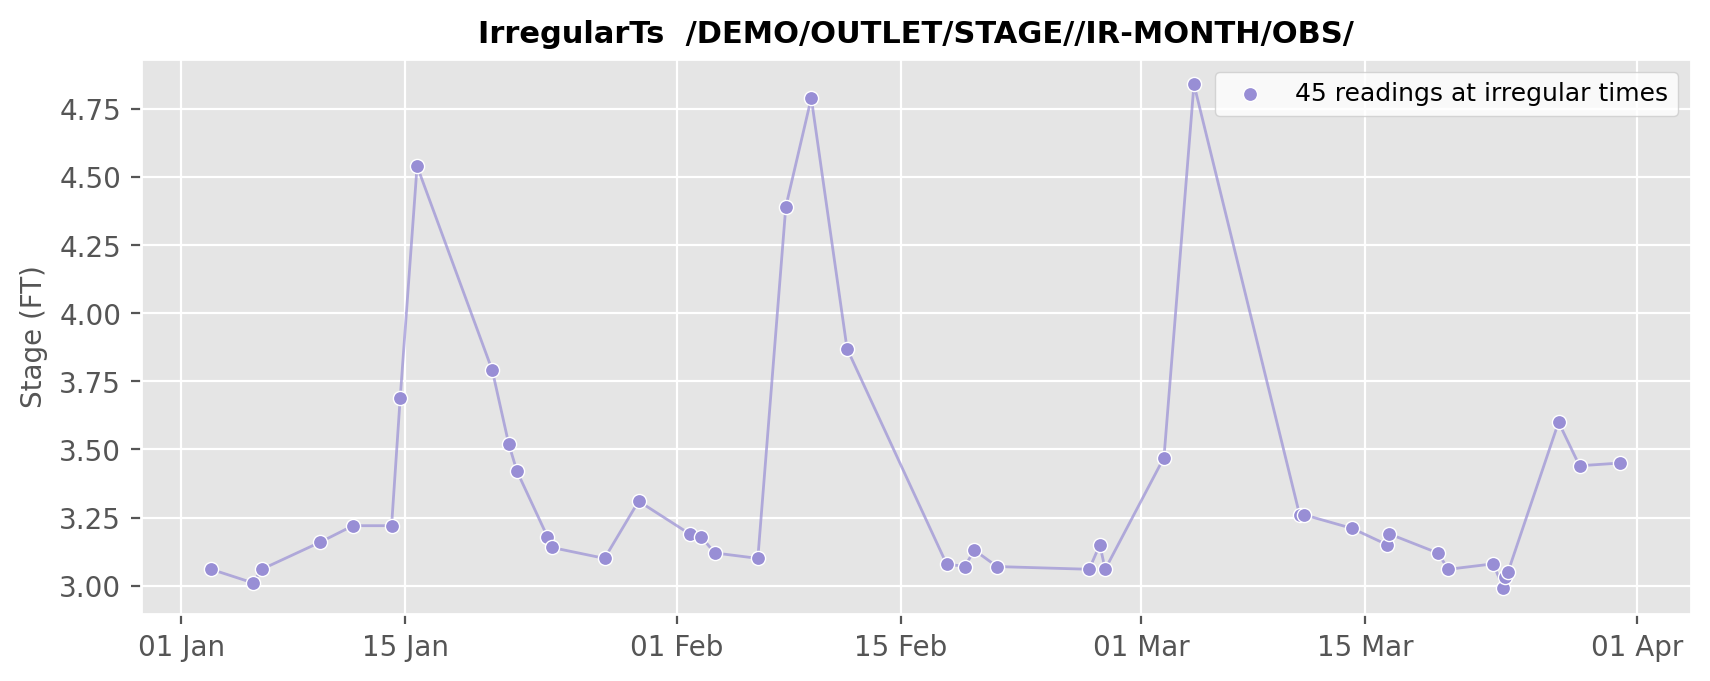
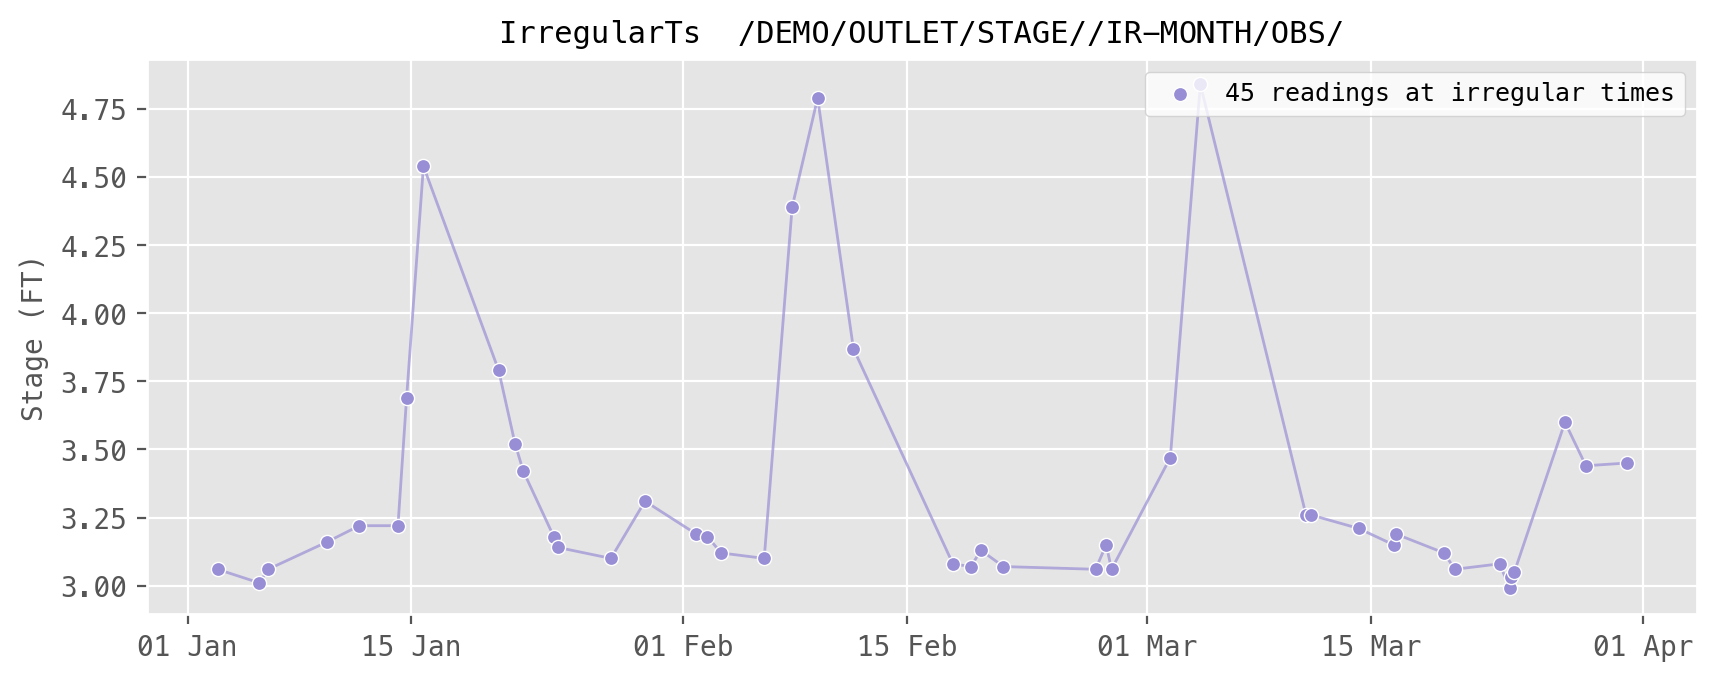
include tools as console scripts

diff --git a/tests/test_tools.py b/tests/test_tools.py
@@ -1,4 +1,4 @@
-''' command line tools in tools/ '''
+''' command line tools in pyheclib/tools '''
 import os
 import subprocess
 import sys
@@ -12,7 +12,7 @@ ROOT = os.path.dirname(os.path.dirname(os.path.abspath(__file__)))
 
 def run_tool(name, *args):
 	env = {**os.environ, "PYTHONPATH": ROOT}
-	result = subprocess.run([sys.executable, os.path.join(ROOT, "tools", name), *args],
+	result = subprocess.run([sys.executable, "-m", f"pyheclib.tools.{name}", *args],
 		capture_output=True, text=True, env=env, check=True)
 	return result.stdout
 
@@ -28,24 +28,24 @@ def make_file(tmp_path):
 
 def test_catalog_tool(tmp_path):
 	fname = make_file(tmp_path)
-	full = run_tool("dss_catalog.py", fname)
-	condensed = run_tool("dss_catalog.py", fname, "--condensed")
+	full = run_tool("dss_catalog", fname)
+	condensed = run_tool("dss_catalog", fname, "--condensed")
 
 	assert "01Feb2020" in full and len(full.splitlines()) == 4
 	assert "/A/B/FLOW/01JAN2020-01FEB2020/1Hour/F/" in condensed and len(condensed.splitlines()) == 3
-	assert len(run_tool("dss_catalog.py", fname, "/A/B/STAGE*/*/*/*/").splitlines()) == 1
+	assert len(run_tool("dss_catalog", fname, "/A/B/STAGE*/*/*/*/").splitlines()) == 1
 
 
 def test_csv_tool(tmp_path):
 	fname = make_file(tmp_path)
 	out = tmp_path / "out.csv"
 
-	run_tool("dssrec2csv.py", fname, "/A/B/FLOW//1HOUR/F/", str(out))
+	run_tool("dssrec2csv", fname, "/A/B/FLOW//1HOUR/F/", str(out))
 	ts = pd.read_csv(out, index_col=0, parse_dates=True)
 	assert ts.shape == (800, 1) and ts.iloc[-1, 0] == 799.0
 
-	run_tool("dssrec2csv.py", fname, "/A/B/STAGE-FLOW///R/", str(out))
+	run_tool("dssrec2csv", fname, "/A/B/STAGE-FLOW///R/", str(out))
 	assert pd.read_csv(out, index_col=0).columns.tolist() == ["c1"]
 
-	run_tool("dssrec2csv.py", fname, "/A/B/DEM///F/", str(out))
+	run_tool("dssrec2csv", fname, "/A/B/DEM///F/", str(out))
 	np.testing.assert_allclose(np.loadtxt(out, delimiter=","), np.arange(4.0).reshape(2, 2))

diff --git a/setup.py b/setup.py
@@ -1,11 +1,15 @@
 #!/usr/bin/env python3
-import os, sys, shutil, numpy
+import os, re, sys, shutil, numpy
 from setuptools import setup, Extension
 from setuptools.command.build_ext import build_ext
 from Cython.Build import cythonize
 
 root = os.path.dirname(os.path.realpath(__file__))
 heclib = os.path.join(root, 'heclib')
+
+# version from pyheclib/__init__.py, the package can't be imported before the extension is built
+with open(os.path.join(root, 'pyheclib', '__init__.py'), encoding='utf-8') as f:
+	version = re.search(r"^__version__ = '([^']+)'", f.read(), re.M).group(1)
 
 # platform dependent
 library_dirs_list = []
@@ -79,7 +83,7 @@ extension = [
 
 setup(
 	python_requires='>=3.8',
-	version='0.4.1',
+	version=version,
 	name='pyheclib',
 	description='Read and write HEC-DSS version 7 files from Python',
 	long_description=open(os.path.join(root, 'readme.md'), encoding='utf-8').read(),
@@ -87,9 +91,15 @@ setup(
 	url='https://github.com/nzahasan/pyheclib',
 	project_urls={'Documentation': 'https://nzahasan.github.io/pyheclib'},
 	license='MIT',
-	packages=['pyheclib'],
+	packages=['pyheclib', 'pyheclib.tools'],
 	package_data={'pyheclib': ['*.so', '*.dylib', '*.dll']},
 	install_requires=['numpy', 'pandas'],
+	# command line tools, pip makes .exe launchers on windows and scripts on linux & macos
+	entry_points={'console_scripts': [
+		'dss_browser = pyheclib.tools.dss_browser:main',
+		'dss_catalog = pyheclib.tools.dss_catalog:cli',
+		'dssrec2csv = pyheclib.tools.dssrec2csv:cli',
+	]},
 	cmdclass={'build_ext': build_ext_hecdss},
 	ext_modules=cythonize(extension, language_level='3', include_path=['src']),
 )

diff --git a/pyheclib/tools/dssrec2csv.py b/pyheclib/tools/dssrec2csv.py
@@ -1,11 +1,7 @@
 #!/usr/bin/env python3
-import os, sys
+import os
 import argparse
 
-# run from a clone without installing: use the repo's in-place build
-REPO = os.path.dirname(os.path.dirname(os.path.abspath(__file__)))
-if os.path.isfile(os.path.join(REPO, "pyheclib", "__init__.py")):
-    sys.path.insert(0, REPO)
 import numpy as np
 import pyheclib as phl
 
@@ -27,8 +23,7 @@ def main(filename, pathname, out_csv):
         record.to_series().to_csv(out_csv)
 
 
-if __name__ == "__main__":
-
+def cli():
     parser = argparse.ArgumentParser(description="write a dss record to csv")
     parser.add_argument("filename")
     parser.add_argument("pathname", help="record pathname, empty D part reads whole time series")
@@ -36,3 +31,7 @@ if __name__ == "__main__":
     args = parser.parse_args()
 
     main(args.filename, args.pathname, args.out_csv)
+
+
+if __name__ == "__main__":
+    cli()

diff --git a/pyheclib/tools/dss_catalog.py b/pyheclib/tools/dss_catalog.py
@@ -1,11 +1,7 @@
 #!/usr/bin/env python3
-import os, sys
+import os
 import argparse
 
-# run from a clone without installing: use the repo's in-place build
-REPO = os.path.dirname(os.path.dirname(os.path.abspath(__file__)))
-if os.path.isfile(os.path.join(REPO, "pyheclib", "__init__.py")):
-    sys.path.insert(0, REPO)
 import pyheclib as phl
 
 
@@ -20,8 +16,7 @@ def main(filename, search_path, condensed):
             print(f"{i:02d}: [{code}]", path)
 
 
-if __name__ == "__main__":
-
+def cli():
     parser = argparse.ArgumentParser(description="list records of a dss file")
     parser.add_argument("filename")
     parser.add_argument("search_path", nargs="?", default="",
@@ -31,3 +26,7 @@ if __name__ == "__main__":
     args = parser.parse_args()
 
     main(args.filename, args.search_path, args.condensed)
+
+
+if __name__ == "__main__":
+    cli()

diff --git a/pyheclib/tools/dss_browser.py b/pyheclib/tools/dss_browser.py
@@ -2,7 +2,7 @@
 '''
 	dss_browser: browse dss files in the web browser.
 
-	    python tools/dss_browser.py [file.dss ...] [--port 8765] [--no-browser]
+	    dss_browser [file.dss ...] [--port 8765] [--no-browser]
 
 	A single file tool using the python built in http server. The page uses
 	htmx for interaction and shadcn/ui styling (tailwind + shadcn theme
@@ -26,11 +26,6 @@ import webbrowser
 import zlib
 from http.server import BaseHTTPRequestHandler, HTTPServer
 from urllib.parse import parse_qs, quote, urlparse
-
-# run from a clone without installing: use the repo's in-place build
-REPO = os.path.dirname(os.path.dirname(os.path.abspath(__file__)))
-if os.path.isfile(os.path.join(REPO, "pyheclib", "__init__.py")):
-	sys.path.insert(0, REPO)
 
 import numpy as np
 import pandas as pd

diff --git a/tests/test_browser.py b/tests/test_browser.py
@@ -1,5 +1,4 @@
-''' tools/dss_browser.py web server '''
-import importlib.util
+''' pyheclib/tools/dss_browser.py web server '''
 import os
 import threading
 import urllib.error
@@ -20,10 +19,8 @@ GRID = "/SHG/A/PRECIP/01JAN2020:0000/01JAN2020:0100/RADAR/"
 
 
 def load_tool():
-	spec = importlib.util.spec_from_file_location("dss_browser", os.path.join(ROOT, "tools", "dss_browser.py"))
-	module = importlib.util.module_from_spec(spec)
-	spec.loader.exec_module(module)
-	return module
+	from pyheclib.tools import dss_browser
+	return dss_browser
 
 
 @pytest.fixture(scope="module")

diff --git a/tests/test_version.py b/tests/test_version.py
@@ -1,0 +1,12 @@
+''' package & bundled hecdss version strings '''
+import os
+
+import pyheclib as phl
+
+ROOT = os.path.dirname(os.path.dirname(os.path.abspath(__file__)))
+
+
+def test_hecdss_version_matches_bundled_library():
+	with open(os.path.join(ROOT, "heclib", "version.txt")) as f:
+		assert f"(hecdss) {phl.__hecdss_version__} " in f.readline()
+	assert phl.api_version()

diff --git a/examples/make_readme_figures.py b/examples/make_readme_figures.py
@@ -27,6 +27,8 @@ import pyheclib as phl
 
 plt.style.use("ggplot")
 plt.rcParams.update({
+	"font.family": "monospace",
+	"font.monospace": ["IBM Plex Mono", "JetBrains Mono", "Menlo", "Consolas", "DejaVu Sans Mono"],
 	"figure.dpi": 100,
 	"savefig.dpi": 200,
 	"savefig.bbox": "tight",

diff --git a/pyheclib/__init__.py b/pyheclib/__init__.py
@@ -18,7 +18,10 @@ from .dssfile import open, DssFile
 
 import os
 
-__version__ = '0.4.1'
+__version__ = '0.4.2'
+
+# bundled HEC-DSS C API library (hecdss), see heclib/version.txt
+__hecdss_version__ = '7-JA-7'
 
 
 def message_level_from_env():

diff --git a/readme.md b/readme.md
@@ -220,13 +220,15 @@ Rules worth knowing:
 
 ## Tools
 
-Command-line tools in [`tools/`](https://github.com/nzahasan/pyheclib/blob/main/tools):
+Installing pyheclib adds these commands (on Linux, macOS and Windows):
 
 ```bash
-python3 tools/dss_browser.py file.dss [--port 8765] [--no-browser]   # browse a file in your web browser
-python3 tools/dss_catalog.py file.dss [filter] [--condensed]         # list records
-python3 tools/dssrec2csv.py file.dss pathname out.csv                # export one record to csv
+dss_browser file.dss [--port 8765] [--no-browser]   # browse a file in your web browser
+dss_catalog file.dss [filter] [--condensed]         # list records
+dssrec2csv file.dss pathname out.csv                # export one record to csv
 ```
+
+They are also available as `python -m pyheclib.tools.<name>`.
 
 The browser opens one or more files in tabs (or drag files onto the page). Search records by
 text or by part (`B=GAGE C=FLOW*`), view metadata, statistics, a graph or table of the data,
@@ -263,6 +265,28 @@ Code layout:
 - `pyheclib/dsspath.py`: `DssPath`
 - `pyheclib/dssfile.py`: `open` and `DssFile`
 - `src/_core.pyx`: thin Cython wrapper around the HEC-DSS C API
+
+## Bundled HEC-DSS library
+
+pyheclib bundles the official HEC-DSS C API library (`hecdss`) version **7-JA-7**, built by
+the Hydrologic Engineering Center ([source code](https://github.com/HydrologicEngineeringCenter/hec-dss)).
+The binaries come unchanged from HEC's Maven repository,
+[`mil/army/usace/hec/hecdss/7-JA-7-<platform>`](https://www.hec.usace.army.mil/nexus/repository/maven-public/mil/army/usace/hec/hecdss/):
+
+| File | Platform | Package |
+|---|---|---|
+| `heclib/macos/libhecdss.dylib` | macOS, universal (arm64 + x86_64) | `7-JA-7-darwin-aarch64`, `7-JA-7-darwin-x86_64` |
+| `heclib/linux/libhecdss.so` | Linux x86_64 | `7-JA-7-linux-x86_64` |
+| `heclib/windows/hecdss.dll` | Windows x64 | `7-JA-7-win-x86_64` |
+
+`heclib/include/hecdss.h` is the matching header. `heclib/windows/hecdss.def` is generated from the
+dll's export table. The details are also in
+[`heclib/version.txt`](https://github.com/nzahasan/pyheclib/blob/main/heclib/version.txt).
+
+```python
+phl.__hecdss_version__   # '7-JA-7', the bundled library release
+phl.api_version()        # version reported by the hecdss C API
+```
 
 ## Resources
 

diff --git a/docs/tools/command-line-tools.md b/docs/tools/command-line-tools.md
@@ -1,27 +1,27 @@
 # Command line tools
 
-These small scripts live in the
-[`tools` folder](https://github.com/nzahasan/pyheclib/tree/main/tools) of the repository.
-They need pyheclib to be installed, or a clone of the repository with the extension built.
+Installing pyheclib adds these commands on Linux, macOS and Windows. They live in
+[`pyheclib/tools`](https://github.com/nzahasan/pyheclib/tree/main/pyheclib/tools) and also run as
+`python -m pyheclib.tools.<name>`, for example from a clone with the extension built in place.
 
-## List records: `dss_catalog.py`
+## List records: `dss_catalog`
 
 Prints every record in a file with its record type code.
 
 ```bash
-python3 tools/dss_catalog.py example.dss
+dss_catalog example.dss
 ```
 
 Show each time series once instead of once per block:
 
 ```bash
-python3 tools/dss_catalog.py example.dss --condensed
+dss_catalog example.dss --condensed
 ```
 
 Show only matching records (use `*` in any part):
 
 ```bash
-python3 tools/dss_catalog.py example.dss "/DEMO/*/FLOW/*/*/*/"
+dss_catalog example.dss "/DEMO/*/FLOW/*/*/*/"
 ```
 
 Record type codes:
@@ -33,12 +33,12 @@ Record type codes:
 | 205 | paired data |
 | 4xx | gridded data (420, 421 and so on, by grid type) |
 
-## Export to CSV: `dssrec2csv.py`
+## Export to CSV: `dssrec2csv`
 
 Saves one record as a CSV file.
 
 ```bash
-python3 tools/dssrec2csv.py example.dss "/DEMO/OUTLET/FLOW//1HOUR/OBS/" flow.csv
+dssrec2csv example.dss "/DEMO/OUTLET/FLOW//1HOUR/OBS/" flow.csv
 ```
 
 - Time series: one row per time, with the time and the value.

diff --git a/docs/tools/dss-viewer.md b/docs/tools/dss-viewer.md
@@ -9,19 +9,20 @@ computer and needs nothing besides pyheclib.
 
 ## Get it
 
-The viewer is a single script, `tools/dss_browser.py`, in the
-[GitHub repository](https://github.com/nzahasan/pyheclib/tree/main/tools).
-Download it, or clone the repository:
+The viewer comes with pyheclib as the `dss_browser` command:
 
 ```bash
-git clone https://github.com/nzahasan/pyheclib
-cd pyheclib
+pip install pyheclib
 ```
+
+It is a single script,
+[`pyheclib/tools/dss_browser.py`](https://github.com/nzahasan/pyheclib/tree/main/pyheclib/tools),
+and also runs as `python -m pyheclib.tools.dss_browser`.
 
 ## Start it
 
 ```bash
-python3 tools/dss_browser.py example.dss
+dss_browser example.dss
 ```
 
 The viewer opens in your web browser at `http://127.0.0.1:8765/`.
@@ -30,7 +31,7 @@ Press `Ctrl+C` in the terminal to stop it.
 You can open more than one file:
 
 ```bash
-python3 tools/dss_browser.py basin.dss radar.dss
+dss_browser basin.dss radar.dss
 ```
 
 Options:
@@ -64,5 +65,5 @@ If you stop the server, the page fades out. It reconnects when the server starts
 The repository has an example file with every record type:
 
 ```bash
-python3 tools/dss_browser.py examples/example.dss
+dss_browser examples/example.dss
 ```
